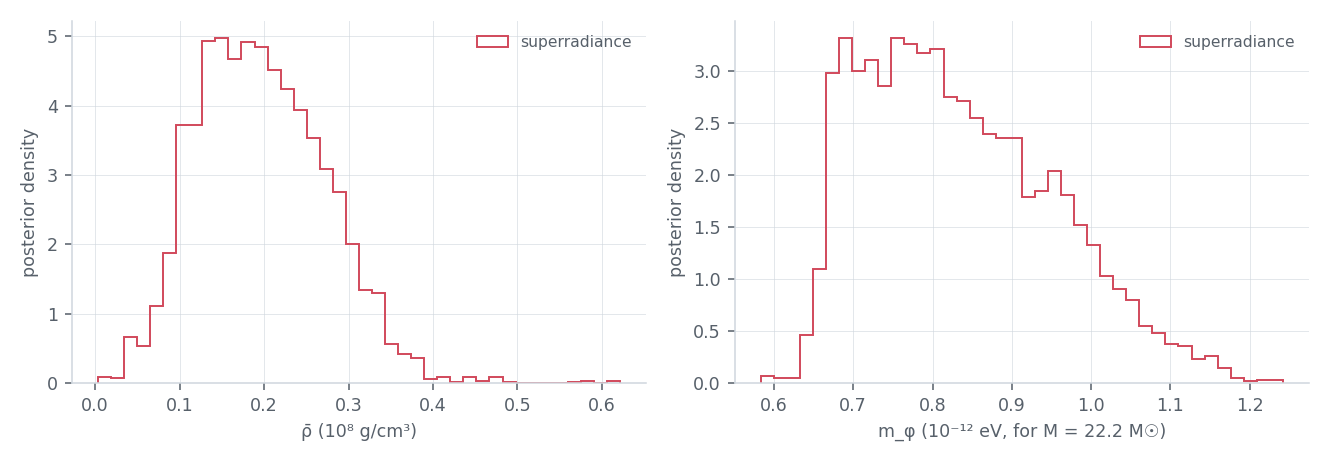
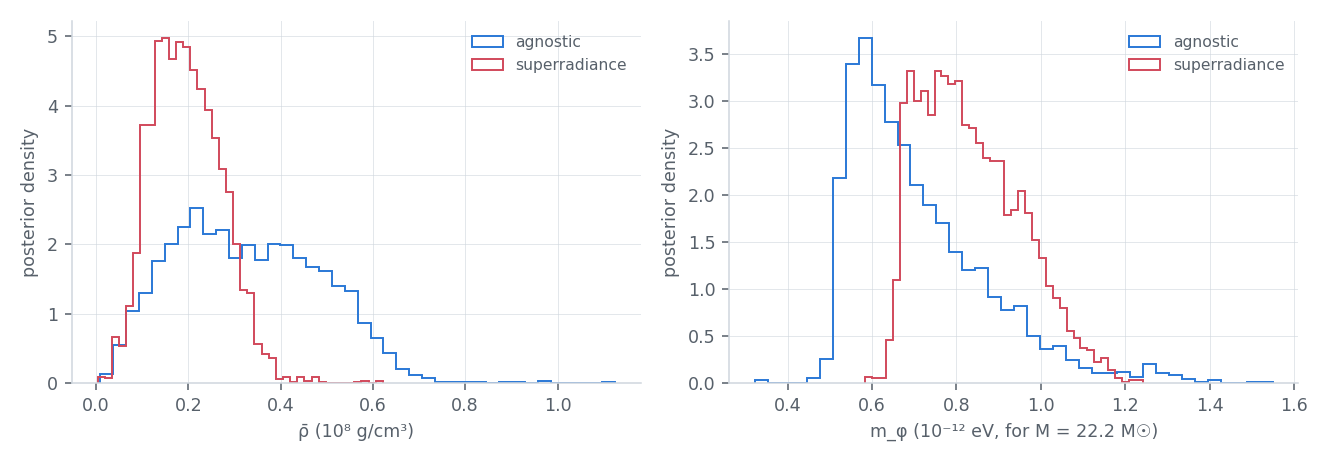
docs: scalar_cloud agnostic Bayes factor and its prior range

diff --git a/docs/modes/scalar-cloud.md b/docs/modes/scalar-cloud.md
@@ -111,8 +111,19 @@ about a day each), 151 jobs of about an hour for the event and the background.
 | Λ | **8.98** | |
 | background | 2 of 151 at Λ ≥ 8.98 (the event and one segment with a loud transient, Λ = 112), p = 0.013; 0.007 without that segment; 147 of 150 below 4.1 | |
 | ln B, superradiance prior (τ_d = 10⁶ yr) | **1.34 ± 0.30** | 3.5 |
-| ln B, agnostic prior | (running) | 0.4 |
-| \(\bar\rho_\phi\) (superradiance) | (0.18 ± 0.08) × 10⁸ g/cm³ | ≈ 0.7 × 10⁸ |
+| ln B, agnostic prior (\(\bar\rho_\phi \le 10^9\) g/cm³) | **−0.82 ± 0.31** | 0.4 (upper end of the prior not given) |
+| \(\bar\rho_\phi\), agnostic (90%) | 3.2 (0.9–5.9) × 10⁷ g/cm³ | ≈ 0.7 × 10⁸ |
+| \(\bar\rho_\phi\), superradiance | (0.18 ± 0.08) × 10⁸ g/cm³ | |
+
+The agnostic Bayes factor depends on the upper end of the uniform prior on \(\bar\rho_\phi\), which the paper does not
+give. The posterior lies below \(6 \times 10^7\) g/cm³; lowering the upper end (the prior fraction drawn from the
+prior itself, the cloud-mass cap barely acts there):
+
+| upper end of \(\bar\rho_\phi\) (g/cm³) | 10⁹ | 5 × 10⁸ | 3 × 10⁸ | 2 × 10⁸ | 10⁸ | 5 × 10⁷ |
+|---|---|---|---|---|---|---|
+| ln B, agnostic | −0.82 | −0.16 | 0.34 | 0.73 | 1.40 | 1.90 |
+
+The paper's 0.4 corresponds to an upper end near \(3 \times 10^8\) g/cm³.
 
 ![Whitened strain of GW190728 with the catalog, vacuum and cloud fits](../img/modes/scalar_cloud_whitened_GW190728.png)
 
@@ -149,8 +160,9 @@ much near this mode.
 ![Posteriors of the density and of the scalar mass](../img/modes/scalar_cloud_cloud_posteriors_GW190728.png)
 
 **Against the paper.** Same mode (a lower chirp mass compensated by the dephasing, a density of 10⁷ g/cm³, α of a
-few 0.1), a likelihood gain of 4.5 against their 4–5, but a smaller Bayes factor with the superradiance prior (1.3
-against 3.5) and a density about 4 times lower. Differences that can contribute: the frame of the correction (J
+few 0.1), a likelihood gain of 4.5 against their 4–5, an agnostic Bayes factor that matches theirs for a prior up
+to about \(3 \times 10^8\) g/cm³, but a smaller Bayes factor with the superradiance prior (1.3 against 3.5) and a
+density 2 to 4 times lower. Differences that can contribute: the frame of the correction (J
 frame here, co-precessing there), the PSDs and the likelihood (ln L 7 below the PE file's), 500 live points instead
 of 1000, and the normalisation of the torque, which sets the density for a given dephasing.
 

diff --git a/CHANGELOG.md b/CHANGELOG.md
@@ -36,7 +36,8 @@ the vacuum IMRPhenomXPHM of the catalog, on GWTC PE settings and GWOSC strain. S
 `background`, `sample` (nested sampling with the paper's agnostic and superradiance priors: the Bayes factor),
 `seeded` (the best-fit statistic Λ with the cloud fits started in the cloud mode found by the sampling, on the event
 and on off-source injections: its p-value), `report`; `--executor slurm` for the cluster stages. For GW190728:
-Λ = 8.98, p ≈ 0.01 against 150 injections, ln B = 1.34 with the superradiance prior (the paper finds 3.5); the
+Λ = 8.98, p ≈ 0.01 against 150 injections, ln B = 1.34 with the superradiance prior (the paper finds 3.5), −0.82 with the agnostic prior up to 10⁹ g/cm³
+(0.34 up to 3 × 10⁸, the paper finds 0.4); the
 improvement is concentrated near 30 Hz, mostly in L1.
 
 ### Removed: `bright_siren`
